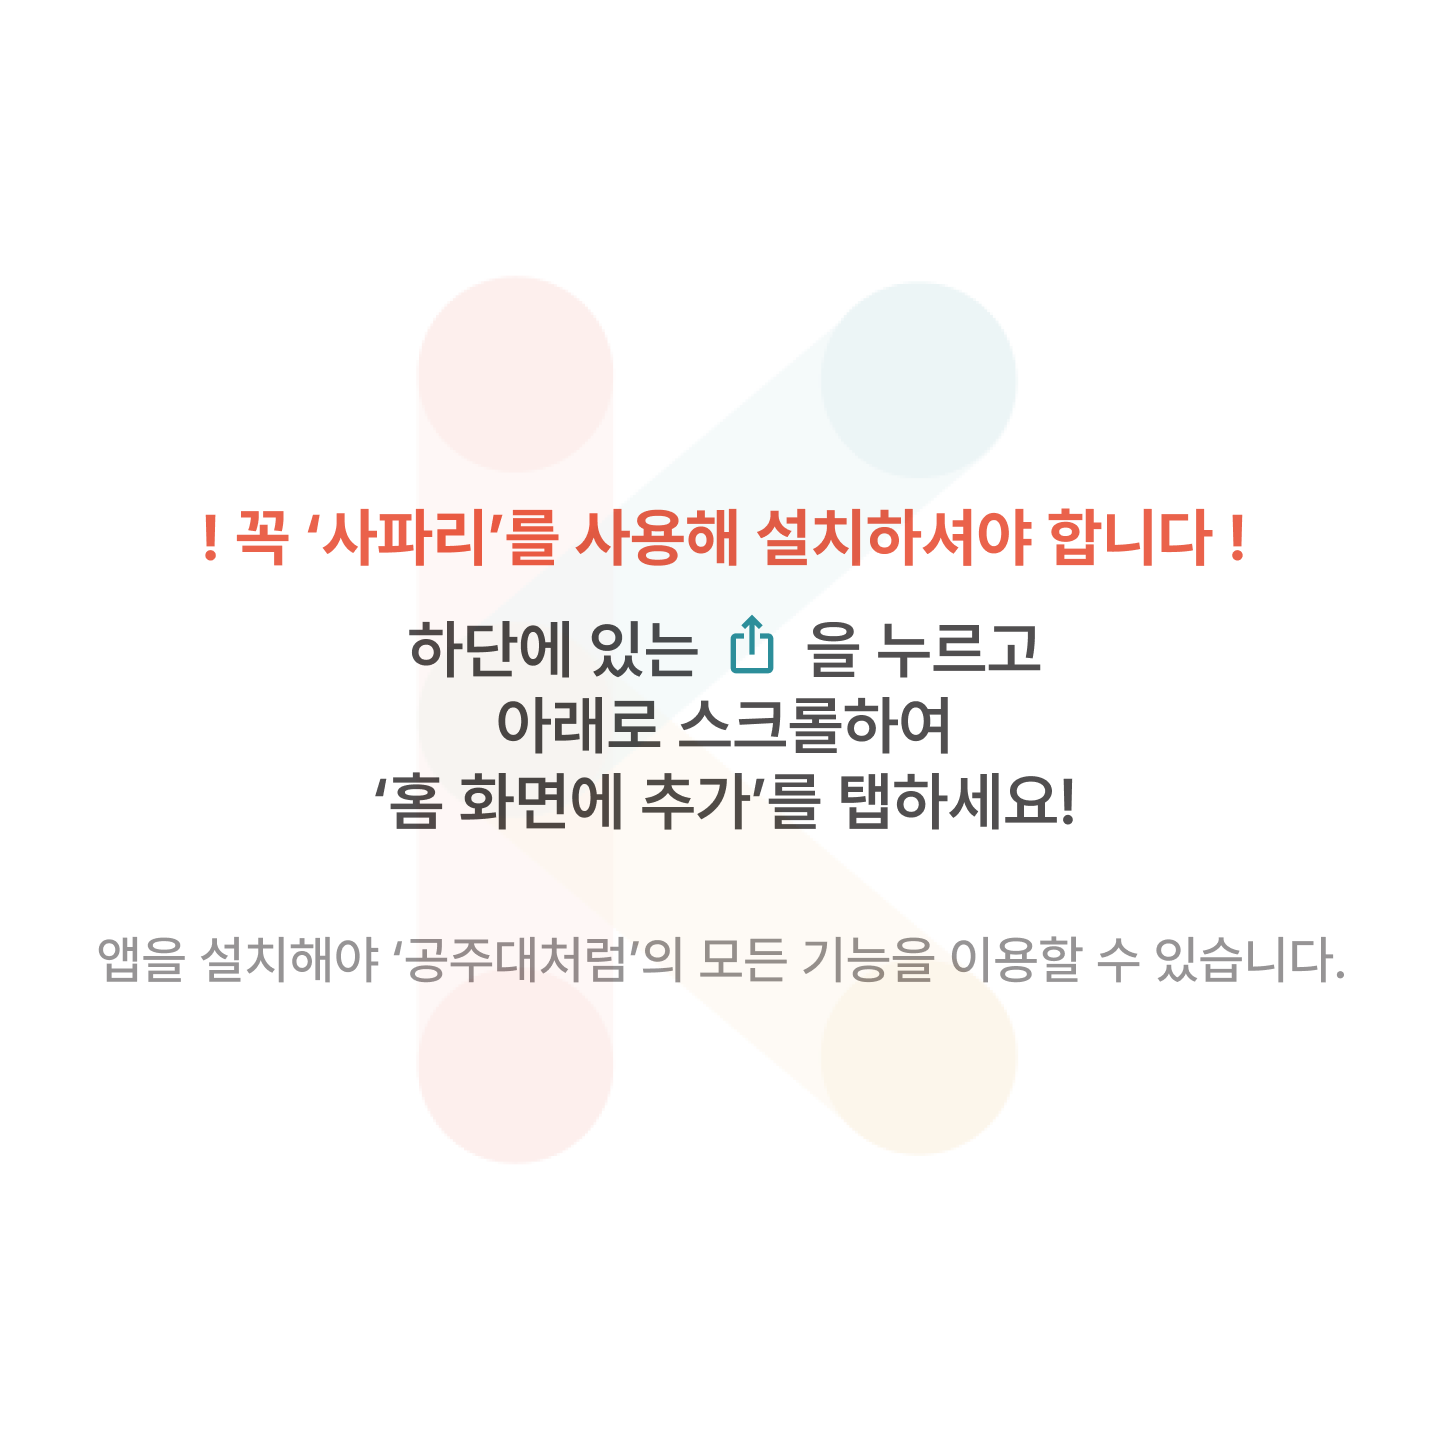
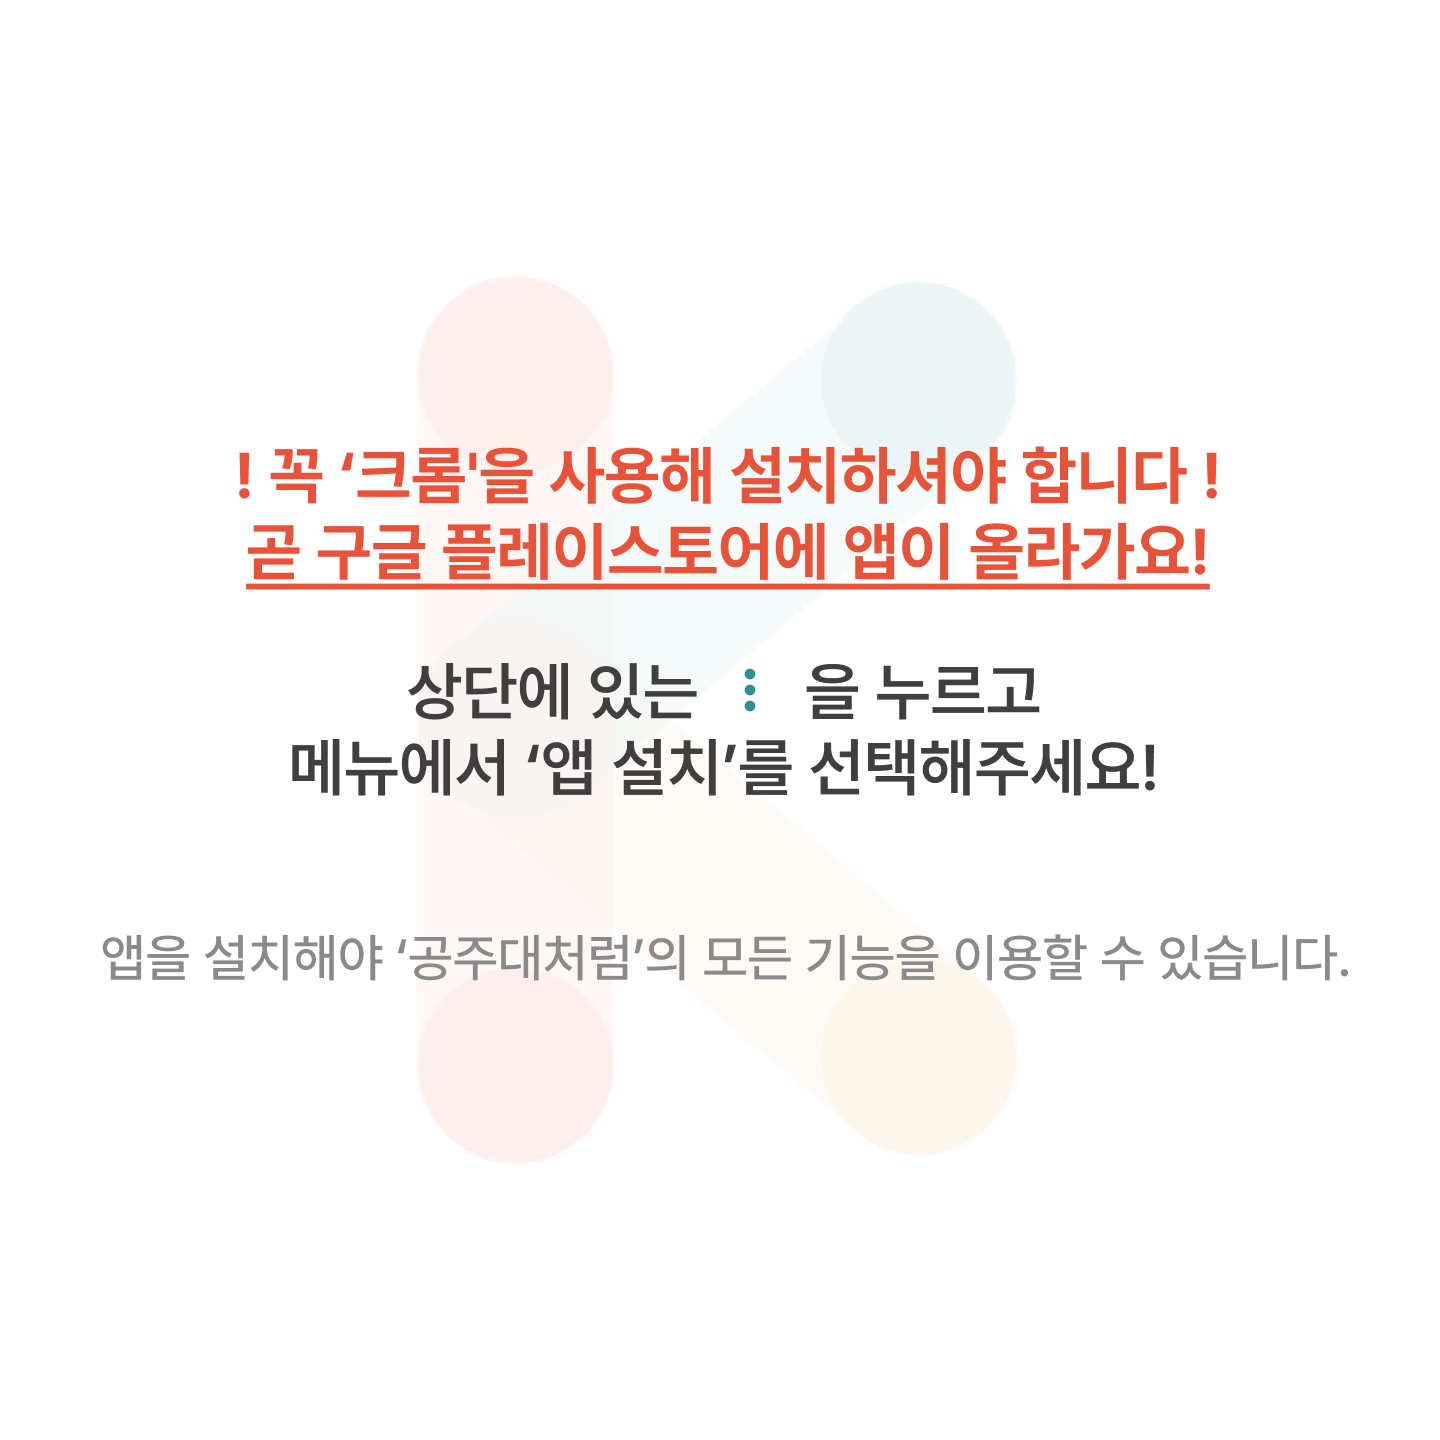
fix: 이미지 수정

Changed region(s): [[0.125, 0.3125, 0.875, 0.5938], [0.0625, 0.625, 0.9375, 0.6875]]

diff --git a/like-knu/src/App.js b/like-knu/src/App.js
@@ -13,8 +13,8 @@ import NotificationPage from "./pages/NotificationPage";
 import SettingNotificationPage from "./pages/SettingNotificationPage";
 import SettingAboutPage from "./pages/SettingAboutPage";
 import { initializeDevice } from "./api/initializer";
-import AosImage from "./assets/ios_onboarding.png";
-import IosImage from "./assets/aos_onboarding.png";
+import AosImage from "./assets/aos_onboarding.png";
+import IosImage from "./assets/ios_onboarding.png";
 import styled from "styled-components";
 function App() {
   const location = useLocation();
